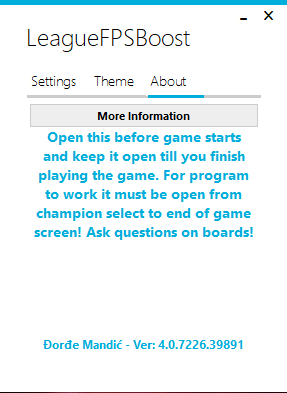
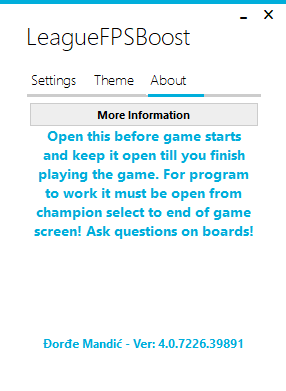
Image cropping and updated readme

diff --git a/README.md b/README.md
@@ -28,7 +28,6 @@ A step by step series of examples that tell you how to get a program running
    - Now after program has loaded up you just can leave it there and run the League Of Legends Client and leave the program running in background until you finish playing League Of Legends(not one game but for the day... and etc). It's important to leave program running in background at same time that League Of Legends Client does. Program works like supervisor for the game so leave it running.
 
 This is how it should look like with toggles set for best performance
-
 ![Example of LeagueFPSBoost Version 4.0.0.0 set for best performance](ImagesForReadme/BestPerformanceExample.png)
 
 ## What tab and is for what
@@ -130,7 +129,7 @@ Versioning system:
 
 ## Donate [![Donate](https://img.shields.io/badge/Donate-PayPal-green.svg)](https://paypal.me/DjordjeMandic)
 
-A donation would be appreciated. 
+A donation would be appreciated to support the project.
 
 ## License
 
